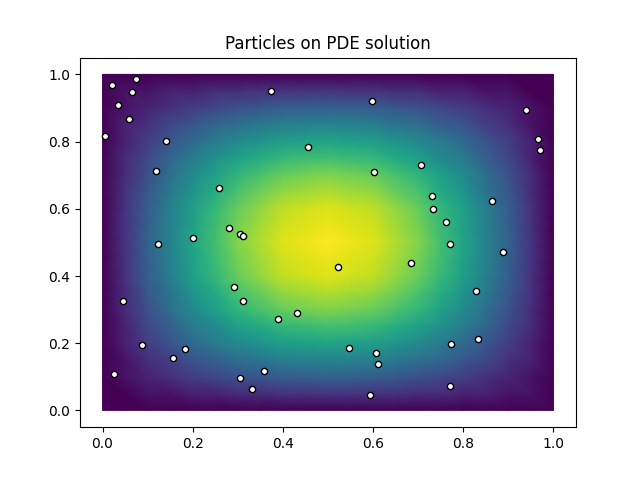
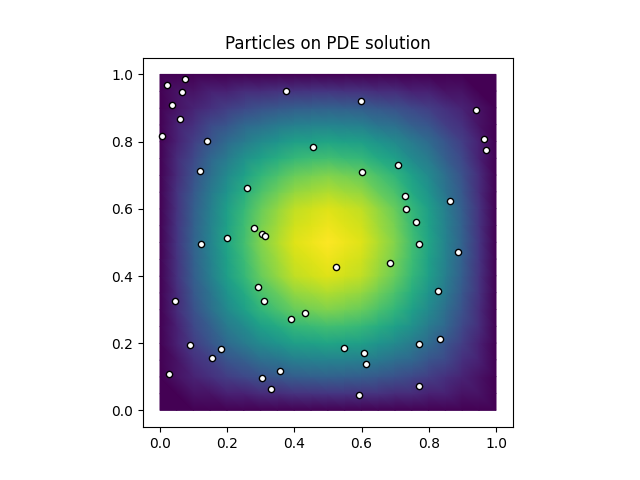
ran various experiments using pointplot

diff --git a/particle_traj_loop.py b/particle_traj_loop.py
@@ -51,8 +51,9 @@ def move_particles_in_ref_space(
         fig, axes = plt.subplots()
         triplot(mesh, axes=axes)
         sc = pointplot(pmesh, axes=axes)
-        axes.set_xlim(0, 1)
-        axes.set_ylim(0, 1)
+        # prevent matplotlib from rescaling the axes as particles move (making the animation jumpy)
+        # axes.set_xlim(0, 1)
+        # axes.set_ylim(0, 1)
         axes.set_aspect("equal")
         frame = 0
 
@@ -287,7 +288,7 @@ def move_particles_in_ref_space(
             pmesh.coordinates.dat.data_wo[:] = new_phys_coords.dat.data_ro
 
         if plot:
-            sc.set_offset(pmesh.coordinates.dat.data_ro)
+            sc.set_offsets(pmesh.coordinates.dat.data_ro)
             plt.savefig(f"output/frame_{frame:04d}.png", dpi=150)
             frame += 1
 

diff --git a/demo_pointplot.py b/demo_pointplot.py
@@ -15,6 +15,7 @@ vom = VertexOnlyMesh(mesh, coords)
 fig, axes = plt.subplots()
 triplot(mesh, axes=axes)
 pointplot(vom, axes=axes)
+axes.set_aspect("equal")
 axes.set_title("Particle positions")
 # axes.legend()
 plt.savefig("pointplot_output/demo_1_basic.png", dpi=150)
@@ -30,6 +31,7 @@ fig, axes = plt.subplots()
 triplot(mesh, axes=axes)
 sc = pointplot(vom, function=f, axes=axes, cmap="plasma")
 fig.colorbar(sc, ax=axes, label="x-coordinate")
+axes.set_aspect("equal")
 axes.set_title("Particles coloured by scalar field")
 plt.savefig("pointplot_output/demo_2_scalar_field.png", dpi=150)
 plt.close(fig)
@@ -45,6 +47,7 @@ u.interpolate(sin(pi*x)*sin(pi*y))
 fig, axes = plt.subplots()
 tripcolor(u, axes=axes, cmap="viridis")
 pointplot(vom, axes=axes, c="white", edgecolors="black", s=20)
+axes.set_aspect("equal")
 axes.set_title("Particles on PDE solution")
 plt.savefig("pointplot_output/demo_3_layered.png")
 plt.close(fig)

diff --git a/test_linear_traj_diag_pos.py b/test_linear_traj_diag_pos.py
@@ -34,7 +34,7 @@ print("Initial particle velocities: ", v0_vom)
 
 # dt=0.1, t=2.6: 1 particle removed
 # dt=0.1, t=7.6: 2 particles removed
-T = 51
+T = 7.6
 dt = 0.1
 T_final, removed_particles = move_particles_in_ref_space(particle_vom, mesh, v, dt, T, t=0.0, plot=False)
 